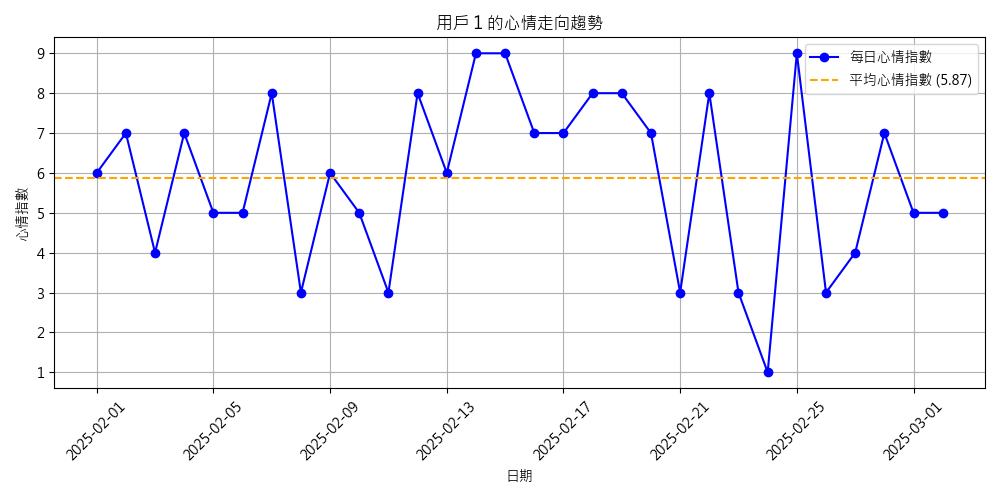
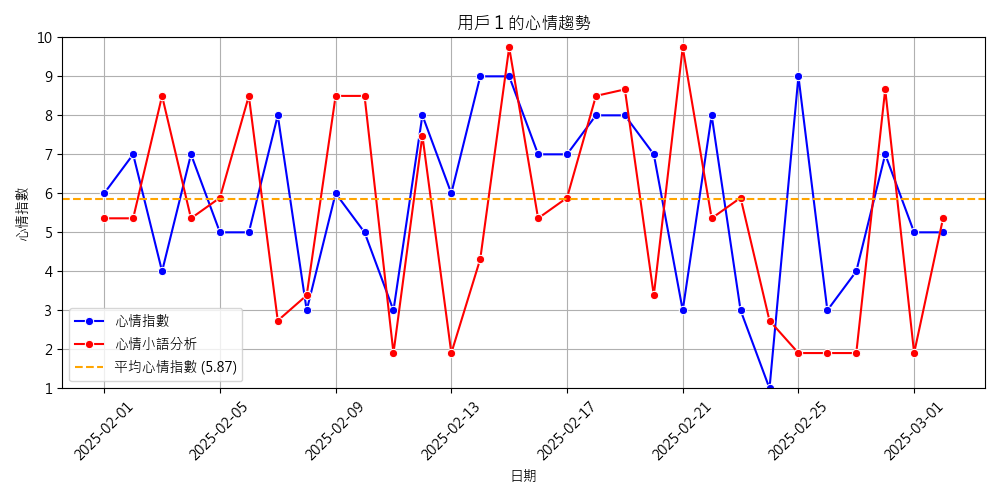
EMOshow

diff --git a/EMOwithSnow.py b/EMOwithSnow.py
@@ -1,0 +1,157 @@
+import os
+import asyncio
+import pandas as pd
+import matplotlib
+import matplotlib.pyplot as plt
+import seaborn as sns
+from snownlp import SnowNLP
+from dotenv import load_dotenv
+import io
+
+matplotlib.use('Agg')  # 使用非 GUI 的後端
+matplotlib.rc('font', family='Microsoft JhengHei')
+
+# 根據你的專案結構調整下列 import
+from autogen_agentchat.agents import AssistantAgent, UserProxyAgent
+from autogen_agentchat.conditions import TextMentionTermination
+from autogen_agentchat.teams import RoundRobinGroupChat
+from autogen_agentchat.messages import TextMessage
+from autogen_ext.models.openai import OpenAIChatCompletionClient
+
+load_dotenv()
+semaphore = asyncio.Semaphore(1)  # 限制最大併發數
+
+def generate_mood_trend_plot(user_id, user_entries):
+    """
+    生成用戶的心情趨勢圖，包含 SnowNLP 心情小語分析，並存入 `moodtrend/` 資料夾。
+    """
+    output_dir = "moodtrend"
+    os.makedirs(output_dir, exist_ok=True)  # 確保目錄存在
+
+    # 確保日期格式正確
+    user_entries["日期"] = pd.to_datetime(user_entries["日期"])
+    user_entries = user_entries.sort_values("日期")
+
+    # 確保心情指數為數字
+    user_entries["心情指數"] = pd.to_numeric(user_entries["心情指數"], errors="coerce")
+
+    # 用 SnowNLP 進行情感分析
+    user_entries["心情小語分析"] = user_entries["心情小語"].apply(lambda text: SnowNLP(text).sentiments * 9 + 1)
+
+    # 計算平均心情指數
+    avg_mood = user_entries["心情指數"].mean()
+
+    # 繪製趨勢圖
+    plt.figure(figsize=(10, 5))
+    sns.lineplot(x=user_entries["日期"], y=user_entries["心情指數"], marker="o", label="心情指數", color="blue", ci=None)
+    sns.lineplot(x=user_entries["日期"], y=user_entries["心情小語分析"], marker="o", label="心情小語分析", color="red", ci=None)
+
+    # 加入平均心情指數線
+    plt.axhline(y=avg_mood, color='orange', linestyle='--', label=f"平均心情指數 ({avg_mood:.2f})")
+
+    # 設定標題與標籤
+    plt.xlabel("日期")
+    plt.ylabel("心情指數")
+    plt.title(f"用戶 {user_id} 的心情趨勢")
+    plt.xticks(rotation=45)
+    plt.grid()
+    plt.legend()
+    plt.tight_layout()
+    plt.ylim(1, 10)  # 調整 Y 軸範圍與表格一致
+
+    # **修正存檔路徑**
+    output_path = os.path.join(output_dir, f"mood_trend_{user_id}.png")
+    plt.savefig(output_path)  # **確保存到 `moodtrend/`**
+    plt.close()
+
+    # ✅ 確認圖片已存檔
+    if os.path.exists(output_path):
+        print(f"✅ 圖片已生成: {output_path}")
+    else:
+        print(f"❌ 圖片存檔失敗: {output_path}")
+
+    return output_path
+
+async def _process_user_diary(user_id, user_entries, model_client, termination_condition):
+    """處理單一用戶的日記，生成心情趨勢圖，並與 AI 進行互動分析。"""
+    trend_image = generate_mood_trend_plot(user_id, user_entries)
+    
+    prompt = (
+        f"目前正在處理用戶 {user_id} 的日記內容，共 {len(user_entries)} 則。\n"
+        f"以下為該用戶的日記內容:\n{user_entries.to_dict(orient='records')}\n\n"
+        "請根據以上內容進行分析，並提供該用戶專屬的正向思考建議，包含：\n"
+        "  1. 分析該用戶的情緒與思考模式；\n"
+        "  2. 提供實際可行的行動方案來改善負面情緒；\n"
+        "  3. 訓練 AI 教練，使其能夠與該用戶進行個性化互動。"
+    )
+
+    analysis_agent = AssistantAgent("analysis_agent", model_client)
+    coaching_agent = AssistantAgent("coaching_agent", model_client)
+    user_proxy = UserProxyAgent("user_proxy")
+    
+    team = RoundRobinGroupChat(
+        [analysis_agent, coaching_agent, user_proxy],
+        termination_condition=termination_condition
+    )
+    
+    messages = []
+    async for event in team.run_stream(task=prompt):
+        try:
+            if isinstance(event, TextMessage):
+                print(f"[{event.source}] => {event.content}\n")
+                messages.append({
+                    "user_id": user_id,
+                    "source": event.source,
+                    "content": event.content,
+                    "type": event.type,
+                    "trend_image": trend_image
+                })
+        except Exception as e:
+            print(f"處理 {user_id} 時發生錯誤: {e}")
+
+    return messages
+
+async def process_user_diary(user_id, user_entries, model_client, termination_condition):
+    async with semaphore:  # 控制最大併發數
+        return await _process_user_diary(user_id, user_entries, model_client, termination_condition)
+
+async def main():
+    gemini_api_key = os.environ.get("GEMINI_API_KEY")
+    if not gemini_api_key:
+        print("請檢查 .env 檔案中的 GEMINI_API_KEY。")
+        return
+
+    model_client = OpenAIChatCompletionClient(
+        model="gemini-2.0-flash",
+        api_key=gemini_api_key,
+    )
+    
+    termination_condition = TextMentionTermination("terminate")
+    
+    csv_file_path = "user_diary.csv"
+    df = pd.read_csv(csv_file_path)
+    
+    # 重新命名欄位以匹配程式中的 user_id
+    df.rename(columns={"用戶ID": "user_id"}, inplace=True)
+
+    if "user_id" not in df.columns:
+        print("CSV 檔案缺少 `user_id` 欄位，請確認數據格式。")
+        return
+    
+    user_groups = df.groupby("user_id")
+    
+    tasks = [
+        asyncio.create_task(process_user_diary(user_id, user_entries, model_client, termination_condition))
+        for user_id, user_entries in user_groups
+    ]
+    
+    results = await asyncio.gather(*tasks, return_exceptions=True)
+    all_messages = [msg for batch in results if isinstance(batch, list) for msg in batch]
+
+    df_log = pd.DataFrame(all_messages)
+    output_file = "personalized_positive_thinking_log.csv"
+    df_log.to_csv(output_file, index=False, encoding="utf-8-sig")
+    print(f"已將個人化建議輸出為 {output_file}")
+
+if __name__ == '__main__':
+    asyncio.run(main())

diff --git a/snow.py b/snow.py
@@ -1,0 +1,61 @@
+import os
+import pandas as pd
+import matplotlib
+import matplotlib.pyplot as plt
+import seaborn as sns
+from snownlp import SnowNLP
+
+matplotlib.rc('font', family='Microsoft JhengHei')
+
+# 設定 CSV 檔案路徑
+csv_file_path = "user_diary.csv"  # 請修改為你的檔案路徑
+
+# 檢查檔案是否存在
+if not os.path.exists(csv_file_path):
+    print(f"❌ 找不到檔案 {csv_file_path}，請確認檔案是否存在！")
+    exit()
+
+# 讀取 CSV
+df = pd.read_csv(csv_file_path)
+
+# 確保日期格式正確
+df["日期"] = pd.to_datetime(df["日期"])
+df = df.sort_values("日期")
+
+# 確保心情指數為數字
+df["心情指數"] = pd.to_numeric(df["心情指數"], errors="coerce")
+
+# 用 SnowNLP 進行情感分析，並命名為心情小語分析
+df["心情小語分析"] = df["心情小語"].apply(lambda text: SnowNLP(text).sentiments * 9 + 1)
+
+# 設定目標用戶 ID
+target_user_id = 10  # 請修改成你要的 ID
+
+# 只篩選特定用戶
+if target_user_id in df["用戶ID"].unique():
+    user_entries = df[df["用戶ID"] == target_user_id]
+
+    plt.figure(figsize=(10, 5))
+
+    # 繪製每日心情指數
+    sns.lineplot(x=user_entries["日期"], y=user_entries["心情指數"], marker="o", label="心情指數", color="blue", ci=None)
+    sns.lineplot(x=user_entries["日期"], y=user_entries["心情小語分析"], marker="o", label="心情小語分析", color="red", ci=None)
+
+    # 計算並繪製平均心情指數
+    avg_mood = user_entries["心情指數"].mean()
+    plt.axhline(y=avg_mood, color='orange', linestyle='--', label=f"平均心情指數 ({avg_mood:.2f})")
+
+    # 設定標題與標籤
+    plt.xlabel("日期")
+    plt.ylabel("心情指數")
+    plt.title(f"用戶 {target_user_id} 的心情趨勢")
+    plt.xticks(rotation=45)
+    plt.grid()
+    plt.legend()
+    plt.tight_layout()
+    plt.ylim(1, 10)  # 調整 Y 軸範圍與表格一致
+
+    # ✅ 顯示圖表
+    plt.show()
+else:
+    print(f"❌ 找不到用戶 ID {target_user_id}，請確認數據是否正確！")
